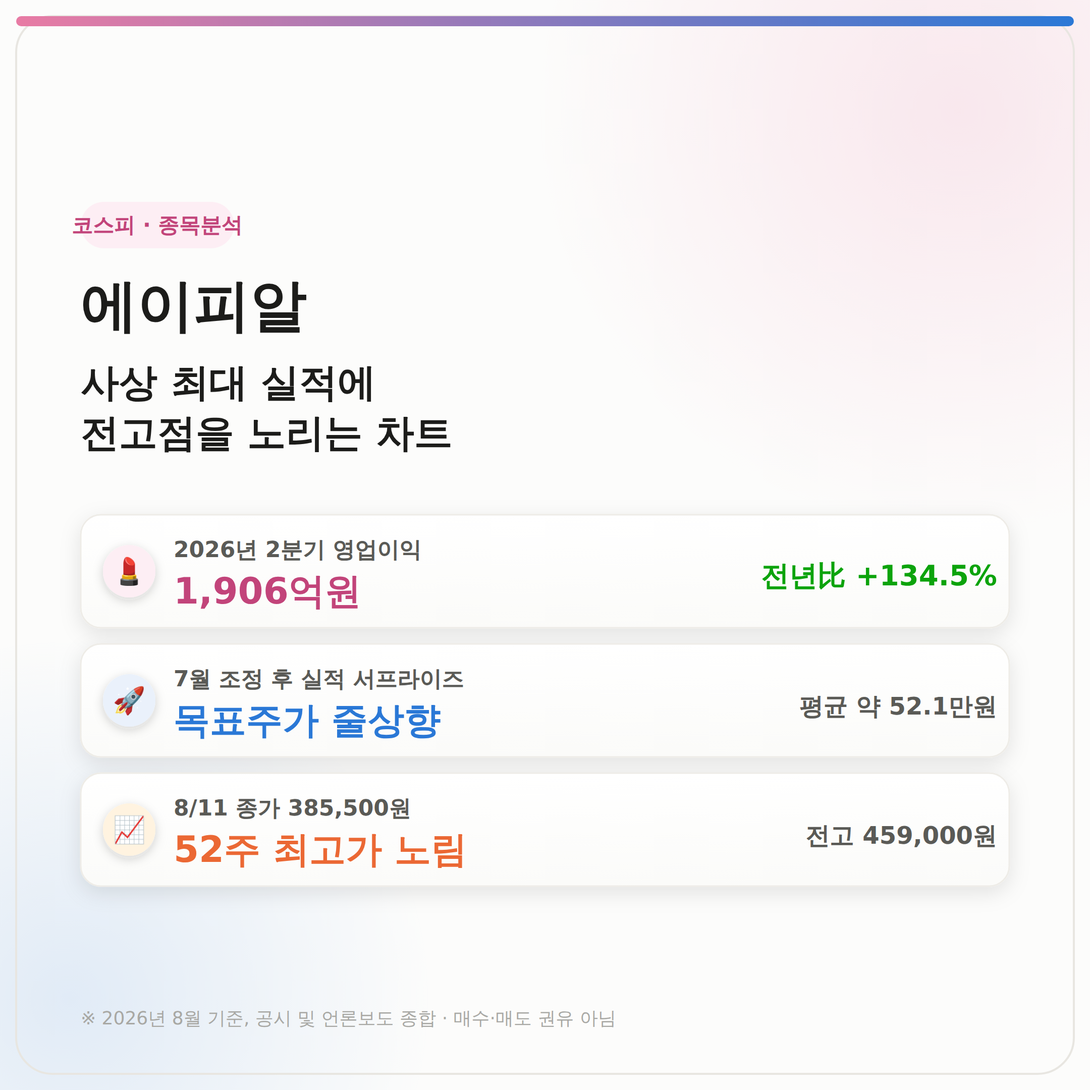
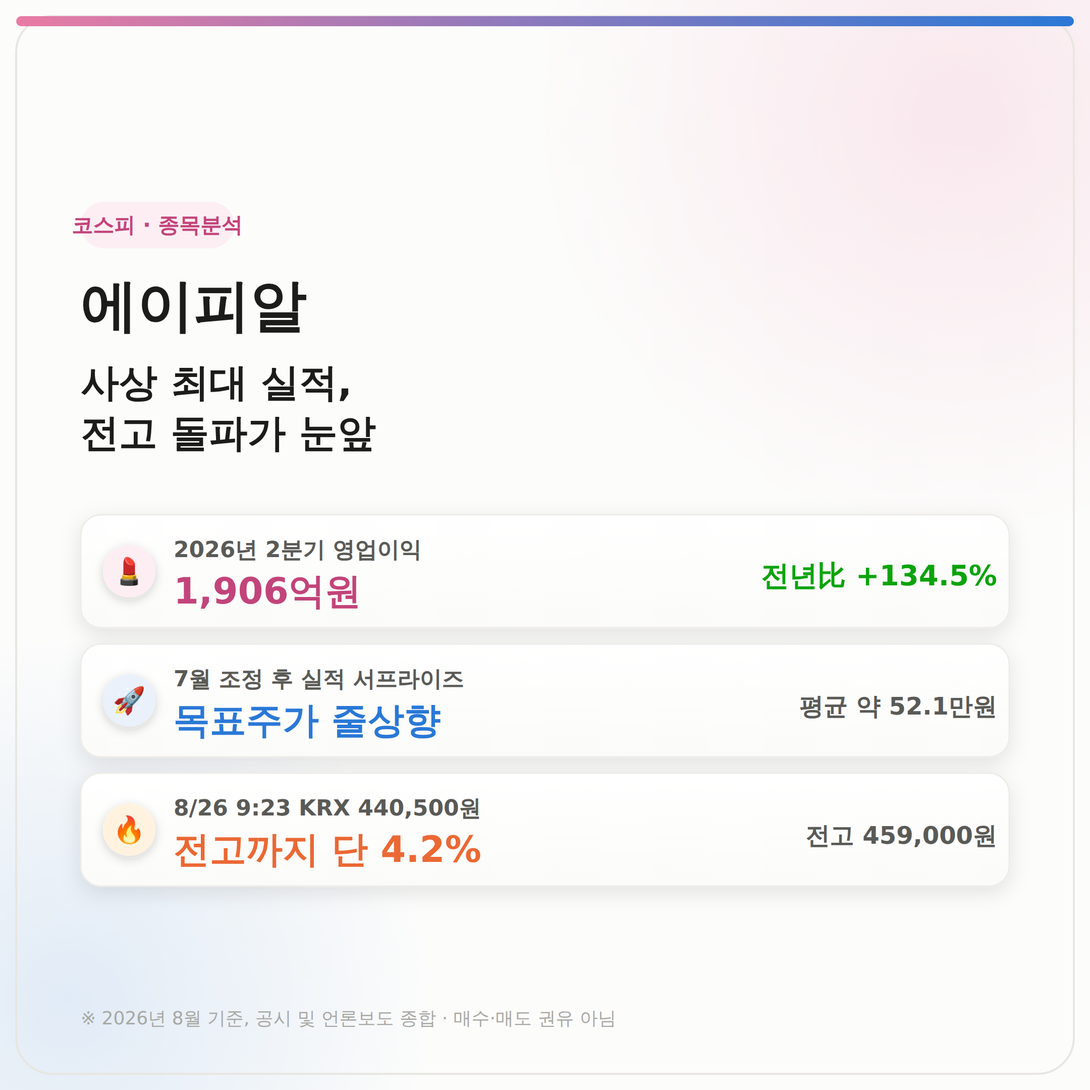
fix: 에이피알 8/26 9:23 KRX 종가(440,500원) 반영, 돌파 가능성 농후 베이스로 재구성
- 8/11 종가(385,500원) 대신 8/26 오전 9시23분 KRX 실시간가(440,500원) 반영
- 52주 최고가(459,000원)까지 남은 거리 19%→4.2%로 갱신
- 종가추이 차트에 8/26 데이터포인트 추가, 돌파 화살표를 전고 근접 지점으로 조정
- 목표주가 차트 현재가 기준선 이동, 밸류에이션 괴리 35%→18%로 재계산
- 시나리오 섹션을 '돌파 시나리오=기본 시나리오, 조정=리스크 변수'로 재구성
- 제목/결론을 '전고 돌파가 눈앞'으로 조정

Changed region(s): [[0.0931, 0.7134, 0.4343, 0.8065], [0.1551, 0.3412, 0.4032, 0.4343]]

diff --git a/src/App.tsx b/src/App.tsx
@@ -9,18 +9,18 @@ import { Post } from './types';
 const samplePosts: Post[] = [
   {
     id: 'post-35',
-    title: '에이피알 분석 - 사상 최대 실적에 전고점을 노리는 차트',
+    title: '에이피알 분석 - 사상 최대 실적, 전고 돌파가 눈앞',
     category: '주식',
-    date: '2026-08-24',
+    date: '2026-08-26',
     tags: ['주식', '에이피알', '메디큐브', '뷰티테크', 'K뷰티', '종목분석', '코스피'],
     naverCategory: '국내주식',
     filePath: 'posts/stock/apr-analysis.md',
     content: `
-# 에이피알 분석 - 사상 최대 실적에 전고점을 노리는 차트
+# 에이피알 분석 - 사상 최대 실적, 전고 돌파가 눈앞
 
 안녕하세요 대왕토끼입니다~ 🐰
 
-![에이피알 주식분석 커버 이미지 - 사상 최대 실적에 전고점을 노리는 차트, 2026년 2분기 영업이익 1906억원 전년比 +134.5%, 7월 조정 후 실적 서프라이즈로 목표주가 줄상향 평균 약 52.1만원, 8월11일 종가 385500원 52주 최고가 노림 전고 459000원](/images/apr-stock/apr-cover.png)
+![에이피알 주식분석 커버 이미지 - 사상 최대 실적, 전고 돌파가 눈앞, 2026년 2분기 영업이익 1906억원 전년比 +134.5%, 7월 조정 후 실적 서프라이즈로 목표주가 줄상향 평균 약 52.1만원, 8월26일 오전 9시23분 KRX 440500원 전고까지 단 4.2% 전고 459000원](/images/apr-stock/apr-cover.png)
 
 지난번 **한국콜마** 분석 때, 저는 "요즘 시장의 관심은 ODM 업체보다 에이피알 같은 브랜드 기업 쪽에 더 쏠려 있다"고 짚었었는데요. 오늘은 그 주인공 **에이피알**을 직접 살펴보려고 합니다. K뷰티 업황 훈풍은 한국콜마 편에서 이미 자세히 다뤘으니, 이번 글에서는 에이피알 고유의 이야기 — 사상 최대 실적과 최근 차트 흐름 — 에 집중해서 짚어봤어요.
 
@@ -65,7 +65,7 @@ const samplePosts: Post[] = [
 
 ---
 
-## 4. 가장 큰 이슈 - 7월 조정을 딛고, 전고점을 노리는 차트
+## 4. 가장 큰 이슈 - 7월 조정을 딛고, 전고 돌파가 코앞까지
 
 ### ① 7월 내내 이어진 조정
 
@@ -73,13 +73,13 @@ const samplePosts: Post[] = [
 
 ### ② 8월, 실적 서프라이즈로 뒤집힌 흐름
 
-분위기는 8월 들어 완전히 바뀌었어요. 8월 4일, 코스피 지수가 -5.12% 급락한 날에도 에이피알은 오히려 +5.63% 오른 338,000원으로 마감하며 '나홀로 질주'했습니다. 이어 8월 6일 2분기 실적(매출 +134.2%, 영업이익 +134.5%)이 시장 예상을 크게 웃돌았다는 소식에 최소 4개 증권사가 일제히 목표주가를 상향했고, 주가는 8월 7일 384,500원(+1.72%), 8월 11일 385,500원까지 강세를 이어갔어요.
+분위기는 8월 들어 완전히 바뀌었어요. 8월 4일, 코스피 지수가 -5.12% 급락한 날에도 에이피알은 오히려 +5.63% 오른 338,000원으로 마감하며 '나홀로 질주'했습니다. 이어 8월 6일 2분기 실적(매출 +134.2%, 영업이익 +134.5%)이 시장 예상을 크게 웃돌았다는 소식에 최소 4개 증권사가 일제히 목표주가를 상향했고, 주가는 8월 7일 384,500원(+1.72%), 8월 11일 385,500원까지 강세를 이어갔어요. 이 흐름은 이후로도 꺾이지 않고 이어져서, 8월 26일 오전 9시 23분 기준 KRX 종가는 **440,500원**까지 올라왔습니다.
 
-![에이피알 종가 추이 차트 - 5월 52주 최고가 459,000원 기록 후 7월 밸류에이션 부담에 조정, 8월4일 코스피 급락장 속 나홀로 상승 338,000원에서 반등해 8월11일 385,500원까지 회복, 52주 최고가 돌파를 향해 접근 중](/images/apr-stock/apr-price-trend.png)
+![에이피알 종가 추이 차트 - 5월 52주 최고가 459,000원 기록 후 7월 밸류에이션 부담에 조정, 8월4일 코스피 급락장 속 나홀로 상승 338,000원에서 반등해 8월26일 440,500원까지 회복, 52주 최고가까지 단 4.2% 남은 돌파 임박 구간](/images/apr-stock/apr-price-trend.png)
 
-### ③ 차트로 보면 - 전고점이 눈앞
+### ③ 차트로 보면 - 돌파 가능성이 농후한 구간
 
-8월 11일 종가(385,500원) 기준으로 보면, 5월 52주 최고가(459,000원)까지는 아직 19% 정도 더 올라야 하는 구간이 남아있어요. 다만 7월 저점 대비로는 이미 상당폭 반등한 상태고, 실적 서프라이즈·목표주가 줄상향이라는 재료가 함께 겹쳐 있다는 점에서, 이 흐름이 이어진다면 전고점 돌파 시도가 현실적인 시나리오로 떠오를 수 있어요. 다음 관전 포인트는 이 반등이 거래량을 동반한 채로 이어지는지, 그리고 실제로 전고점 부근에서 매물이 어떻게 소화되는지예요.
+8월 26일 현재가(440,500원) 기준으로 보면, 5월 52주 최고가(459,000원)까지 남은 거리는 단 4.2%예요. 7월 저점(338,000원) 대비로는 이미 30% 넘게 반등한 상태고, 그 반등을 실적 서프라이즈와 목표주가 줄상향이라는 펀더멘털 재료가 계속 뒷받침하고 있다는 점에서, 지금 이 구간은 "돌파가 될 수도 있다" 정도가 아니라 "돌파 가능성이 농후한" 베이스로 봐도 무리가 없어 보여요. 실적 모멘텀이 꺾이지 않는 한, 52주 최고가는 저항선이라기보다 통과 지점에 더 가까운 위치라는 인상이에요. 다음 관전 포인트는 전고점 부근에서 거래량이 얼마나 실리는지, 그리고 실제로 신고가를 찍는 순간의 매물 소화 여부예요.
 
 ---
 
@@ -98,27 +98,29 @@ const samplePosts: Post[] = [
 | KB증권 | 50만원 | 기존 대비 +4.2% 상향 |
 | **7개사 목표주가 평균** | **약 52.1만원** | - |
 
-![에이피알 목표주가와 현재가 비교 차트 - 8월11일 종가 385,500원 대비 삼성·KB증권 50만원, 하나증권 51만원, 한국투자증권 52만원, 유진투자증권 53만원, NH투자증권 54만원, 교보증권 55만원으로 목표주가가 모두 현재가를 크게 상회](/images/apr-stock/apr-target-price.png)
+![에이피알 목표주가와 현재가 비교 차트 - 8월26일 오전 9시23분 KRX 440,500원 대비 삼성·KB증권 50만원, 하나증권 51만원, 한국투자증권 52만원, 유진투자증권 53만원, NH투자증권 54만원, 교보증권 55만원으로 목표주가가 모두 현재가를 상회](/images/apr-stock/apr-target-price.png)
 
-8월 11일 종가 대비 목표주가 평균은 35% 이상 높은 수준이고, 52주 최고가(459,000원)보다도 목표주가 상단(55만원)이 훨씬 위에 있어요. 증권가는 이미 "많이 올랐다"보다는 "아직 갈 길이 남았다" 쪽에 무게를 두고 있는 셈이에요.
+8월 26일 현재가(440,500원) 대비로도 목표주가 평균은 여전히 18% 이상 높은 수준이고, 목표주가 상단(55만원)은 52주 최고가(459,000원)보다도 위에 있어요. 즉 지금 가격 상승분을 반영하고도, 증권가는 여전히 "아직 갈 길이 남았다" 쪽에 무게를 두고 있는 셈이에요.
 
 ---
 
-## 6. 앞으로의 향방: 돌파 시나리오 vs 조정 시나리오
+## 6. 앞으로의 향방: 돌파가 기본 시나리오, 관건은 속도
 
-### 📈 돌파 시나리오 (실적 모멘텀 지속)
+차트, 실적, 수급 세 가지가 한 방향을 가리키고 있다는 점에서 지금은 돌파 쪽에 좀 더 무게를 두고 봐도 되는 구간이라고 봐요. 다만 그 과정에서 흔들릴 수 있는 변수도 함께 짚어볼게요.
+
+### 📈 돌파 시나리오 (기본 시나리오)
 - 3분기에도 메디큐브·AGE-R의 해외 판매 확대가 이어지며 실적 서프라이즈가 반복되는 흐름
 - 뷰티테크 카테고리에서의 선두 지위가 공고해지며 밸류에이션 재평가가 이어지는 흐름
-- 거래량을 동반한 신고가 경신으로 52주 최고가(459,000원)를 돌파하는 흐름
-- 관전 포인트: 3분기 실적 발표 시점, 해외 오프라인 매장 확대 속도, 패션 부문 반등 여부
+- 거래량을 동반한 채로 52주 최고가(459,000원)를 넘어서며 신고가 영역에 진입하는 흐름
+- 관전 포인트: 전고점 부근 거래량, 3분기 실적 발표 시점, 해외 오프라인 매장 확대 속도
 
-### 📉 조정 시나리오 (밸류에이션 부담 재부각)
-- 7월과 유사하게, 단기 급등에 따른 차익실현 매물이 다시 출회하는 흐름
+### 📉 조정 시나리오 (변수로 남는 리스크)
+- 전고점 부근에서 차익실현 매물이 예상보다 무겁게 출회하며 돌파에 실패하는 흐름
 - 메디큐브 단일 브랜드 의존도가 높은 상태에서 브랜드 피로도나 경쟁 심화가 부각되는 흐름
 - 패션(널디) 부문의 부진이 장기화되며 전사 수익성에 부담을 주는 흐름
-- 목표주가와 현재가 사이의 큰 괴리가 과열의 신호로 재해석되는 흐름
+- 단기간 급등에 따른 변동성이 다시 7월과 같은 조정으로 이어지는 흐름
 
-결국 핵심은 "8월의 반등이 실적 개선 추세를 확인한 재평가인지, 아니면 단기 반등에 그치는지"를 다음 분기 실적과 전고점 부근에서의 거래량으로 확인하는 거예요.
+결국 핵심은 "이 흐름이 전고점을 뚫고 신고가 영역으로 이어지느냐, 아니면 전고점 부근에서 한 번 더 쉬어가느냐"이고, 지금까지 나온 재료들은 전자 쪽에 좀 더 힘을 실어주고 있는 모습이에요.
 
 ---
 
@@ -127,7 +129,8 @@ const samplePosts: Post[] = [
 **투자 포인트**
 - 화장품(메디큐브)과 홈 뷰티디바이스(AGE-R)를 함께 파는 독특한 사업 구조로, 카테고리 자체를 개척하고 있어요.
 - 두 분기 연속 전년比 130%대 성장을 기록하며 실적 모멘텀이 뚜렷하게 확인되고 있어요.
-- 목표주가 평균이 현재가 대비 35% 이상 높고, 52주 최고가 대비로도 목표주가 상단이 더 높은 편이에요.
+- 목표주가 평균이 현재가 대비 18% 이상 높고, 52주 최고가 대비로도 목표주가 상단이 더 높은 편이에요.
+- 8월 26일 현재가 기준 52주 최고가까지 남은 거리가 단 4.2%로, 차트상으로도 돌파 가능성이 농후한 구간에 들어와 있어요.
 - 미국·유럽 오프라인 채널 확장이 아직 초입 단계라, 추가 성장 여력이 남아있다는 시각이 있어요.
 
 **리스크**
@@ -140,9 +143,9 @@ const samplePosts: Post[] = [
 
 ## 8. 결론 및 투자자 시사점
 
-에이피알은 화장품과 홈 뷰티디바이스를 함께 파는 독특한 사업 구조로 K뷰티 브랜드 기업의 대표주자로 떠오른 회사예요. 두 분기 연속 전년比 130%대 성장이라는 압도적인 실적을 내고 있고, 7월 조정을 딛고 8월 들어 실적 서프라이즈와 목표주가 줄상향을 등에 업고 다시 반등하는 흐름을 보이고 있습니다.
+에이피알은 화장품과 홈 뷰티디바이스를 함께 파는 독특한 사업 구조로 K뷰티 브랜드 기업의 대표주자로 떠오른 회사예요. 두 분기 연속 전년比 130%대 성장이라는 압도적인 실적을 내고 있고, 7월 조정을 딛고 8월 들어 실적 서프라이즈와 목표주가 줄상향을 등에 업고 반등한 끝에, 8월 26일 현재 52주 최고가까지 단 4.2%만을 남겨둔 상태까지 올라왔습니다.
 
-지난 한국콜마 분석에서 다뤘던 K뷰티 수출 훈풍이 산업 전체의 배경이라면, 에이피알은 그 안에서도 자체 브랜드·디바이스로 시장의 관심을 가장 많이 받고 있는 종목 중 하나예요. 다만 52주 최고가까지는 아직 거리가 남아있고, 목표주가와의 괴리도 큰 만큼, 이 반등이 추세적인 재평가인지 다음 분기 실적으로 직접 확인해보시는 걸 추천드려요.
+지난 한국콜마 분석에서 다뤘던 K뷰티 수출 훈풍이 산업 전체의 배경이라면, 에이피알은 그 안에서도 자체 브랜드·디바이스로 시장의 관심을 가장 많이 받고 있는 종목 중 하나예요. 실적, 수급, 차트가 함께 같은 방향을 가리키고 있다는 점에서 전고점 돌파 가능성이 농후한 구간으로 보이지만, 목표주가와의 괴리가 여전히 크고 전고점 자체가 강한 저항선으로 작용할 수도 있는 만큼, 실제 돌파 여부와 그 이후의 거래량은 직접 확인해보시는 걸 추천드려요.
 
 투자는 언제나 최신 사업보고서와 분기 실적, 그리고 그날그날의 업황 뉴스를 직접 확인하신 후 신중하게 결정하시길 바랍니다. 📊
 

diff --git a/posts/stock/apr-analysis.md b/posts/stock/apr-analysis.md
@@ -1,16 +1,16 @@
 ---
-title: "에이피알 분석 - 사상 최대 실적에 전고점을 노리는 차트"
+title: "에이피알 분석 - 사상 최대 실적, 전고 돌파가 눈앞"
 category: "주식"
-date: "2026-08-24"
+date: "2026-08-26"
 tags: ["주식", "에이피알", "메디큐브", "뷰티테크", "K뷰티", "종목분석", "코스피"]
 naverCategory: "국내주식"
 ---
 
-# 에이피알 분석 - 사상 최대 실적에 전고점을 노리는 차트
+# 에이피알 분석 - 사상 최대 실적, 전고 돌파가 눈앞
 
 안녕하세요 대왕토끼입니다~ 🐰
 
-![에이피알 주식분석 커버 이미지 - 사상 최대 실적에 전고점을 노리는 차트, 2026년 2분기 영업이익 1906억원 전년比 +134.5%, 7월 조정 후 실적 서프라이즈로 목표주가 줄상향 평균 약 52.1만원, 8월11일 종가 385500원 52주 최고가 노림 전고 459000원](/images/apr-stock/apr-cover.png)
+![에이피알 주식분석 커버 이미지 - 사상 최대 실적, 전고 돌파가 눈앞, 2026년 2분기 영업이익 1906억원 전년比 +134.5%, 7월 조정 후 실적 서프라이즈로 목표주가 줄상향 평균 약 52.1만원, 8월26일 오전 9시23분 KRX 440500원 전고까지 단 4.2% 전고 459000원](/images/apr-stock/apr-cover.png)
 
 지난번 **한국콜마** 분석 때, 저는 "요즘 시장의 관심은 ODM 업체보다 에이피알 같은 브랜드 기업 쪽에 더 쏠려 있다"고 짚었었는데요. 오늘은 그 주인공 **에이피알**을 직접 살펴보려고 합니다. K뷰티 업황 훈풍은 한국콜마 편에서 이미 자세히 다뤘으니, 이번 글에서는 에이피알 고유의 이야기 — 사상 최대 실적과 최근 차트 흐름 — 에 집중해서 짚어봤어요.
 
@@ -55,7 +55,7 @@ naverCategory: "국내주식"
 
 ---
 
-## 4. 가장 큰 이슈 - 7월 조정을 딛고, 전고점을 노리는 차트
+## 4. 가장 큰 이슈 - 7월 조정을 딛고, 전고 돌파가 코앞까지
 
 ### ① 7월 내내 이어진 조정
 
@@ -63,13 +63,13 @@ naverCategory: "국내주식"
 
 ### ② 8월, 실적 서프라이즈로 뒤집힌 흐름
 
-분위기는 8월 들어 완전히 바뀌었어요. 8월 4일, 코스피 지수가 -5.12% 급락한 날에도 에이피알은 오히려 +5.63% 오른 338,000원으로 마감하며 '나홀로 질주'했습니다. 이어 8월 6일 2분기 실적(매출 +134.2%, 영업이익 +134.5%)이 시장 예상을 크게 웃돌았다는 소식에 최소 4개 증권사가 일제히 목표주가를 상향했고, 주가는 8월 7일 384,500원(+1.72%), 8월 11일 385,500원까지 강세를 이어갔어요.
+분위기는 8월 들어 완전히 바뀌었어요. 8월 4일, 코스피 지수가 -5.12% 급락한 날에도 에이피알은 오히려 +5.63% 오른 338,000원으로 마감하며 '나홀로 질주'했습니다. 이어 8월 6일 2분기 실적(매출 +134.2%, 영업이익 +134.5%)이 시장 예상을 크게 웃돌았다는 소식에 최소 4개 증권사가 일제히 목표주가를 상향했고, 주가는 8월 7일 384,500원(+1.72%), 8월 11일 385,500원까지 강세를 이어갔어요. 이 흐름은 이후로도 꺾이지 않고 이어져서, 8월 26일 오전 9시 23분 기준 KRX 종가는 **440,500원**까지 올라왔습니다.
 
-![에이피알 종가 추이 차트 - 5월 52주 최고가 459,000원 기록 후 7월 밸류에이션 부담에 조정, 8월4일 코스피 급락장 속 나홀로 상승 338,000원에서 반등해 8월11일 385,500원까지 회복, 52주 최고가 돌파를 향해 접근 중](/images/apr-stock/apr-price-trend.png)
+![에이피알 종가 추이 차트 - 5월 52주 최고가 459,000원 기록 후 7월 밸류에이션 부담에 조정, 8월4일 코스피 급락장 속 나홀로 상승 338,000원에서 반등해 8월26일 440,500원까지 회복, 52주 최고가까지 단 4.2% 남은 돌파 임박 구간](/images/apr-stock/apr-price-trend.png)
 
-### ③ 차트로 보면 - 전고점이 눈앞
+### ③ 차트로 보면 - 돌파 가능성이 농후한 구간
 
-8월 11일 종가(385,500원) 기준으로 보면, 5월 52주 최고가(459,000원)까지는 아직 19% 정도 더 올라야 하는 구간이 남아있어요. 다만 7월 저점 대비로는 이미 상당폭 반등한 상태고, 실적 서프라이즈·목표주가 줄상향이라는 재료가 함께 겹쳐 있다는 점에서, 이 흐름이 이어진다면 전고점 돌파 시도가 현실적인 시나리오로 떠오를 수 있어요. 다음 관전 포인트는 이 반등이 거래량을 동반한 채로 이어지는지, 그리고 실제로 전고점 부근에서 매물이 어떻게 소화되는지예요.
+8월 26일 현재가(440,500원) 기준으로 보면, 5월 52주 최고가(459,000원)까지 남은 거리는 단 4.2%예요. 7월 저점(338,000원) 대비로는 이미 30% 넘게 반등한 상태고, 그 반등을 실적 서프라이즈와 목표주가 줄상향이라는 펀더멘털 재료가 계속 뒷받침하고 있다는 점에서, 지금 이 구간은 "돌파가 될 수도 있다" 정도가 아니라 "돌파 가능성이 농후한" 베이스로 봐도 무리가 없어 보여요. 실적 모멘텀이 꺾이지 않는 한, 52주 최고가는 저항선이라기보다 통과 지점에 더 가까운 위치라는 인상이에요. 다음 관전 포인트는 전고점 부근에서 거래량이 얼마나 실리는지, 그리고 실제로 신고가를 찍는 순간의 매물 소화 여부예요.
 
 ---
 
@@ -88,27 +88,29 @@ naverCategory: "국내주식"
 | KB증권 | 50만원 | 기존 대비 +4.2% 상향 |
 | **7개사 목표주가 평균** | **약 52.1만원** | - |
 
-![에이피알 목표주가와 현재가 비교 차트 - 8월11일 종가 385,500원 대비 삼성·KB증권 50만원, 하나증권 51만원, 한국투자증권 52만원, 유진투자증권 53만원, NH투자증권 54만원, 교보증권 55만원으로 목표주가가 모두 현재가를 크게 상회](/images/apr-stock/apr-target-price.png)
+![에이피알 목표주가와 현재가 비교 차트 - 8월26일 오전 9시23분 KRX 440,500원 대비 삼성·KB증권 50만원, 하나증권 51만원, 한국투자증권 52만원, 유진투자증권 53만원, NH투자증권 54만원, 교보증권 55만원으로 목표주가가 모두 현재가를 상회](/images/apr-stock/apr-target-price.png)
 
-8월 11일 종가 대비 목표주가 평균은 35% 이상 높은 수준이고, 52주 최고가(459,000원)보다도 목표주가 상단(55만원)이 훨씬 위에 있어요. 증권가는 이미 "많이 올랐다"보다는 "아직 갈 길이 남았다" 쪽에 무게를 두고 있는 셈이에요.
+8월 26일 현재가(440,500원) 대비로도 목표주가 평균은 여전히 18% 이상 높은 수준이고, 목표주가 상단(55만원)은 52주 최고가(459,000원)보다도 위에 있어요. 즉 지금 가격 상승분을 반영하고도, 증권가는 여전히 "아직 갈 길이 남았다" 쪽에 무게를 두고 있는 셈이에요.
 
 ---
 
-## 6. 앞으로의 향방: 돌파 시나리오 vs 조정 시나리오
+## 6. 앞으로의 향방: 돌파가 기본 시나리오, 관건은 속도
 
-### 📈 돌파 시나리오 (실적 모멘텀 지속)
+차트, 실적, 수급 세 가지가 한 방향을 가리키고 있다는 점에서 지금은 돌파 쪽에 좀 더 무게를 두고 봐도 되는 구간이라고 봐요. 다만 그 과정에서 흔들릴 수 있는 변수도 함께 짚어볼게요.
+
+### 📈 돌파 시나리오 (기본 시나리오)
 - 3분기에도 메디큐브·AGE-R의 해외 판매 확대가 이어지며 실적 서프라이즈가 반복되는 흐름
 - 뷰티테크 카테고리에서의 선두 지위가 공고해지며 밸류에이션 재평가가 이어지는 흐름
-- 거래량을 동반한 신고가 경신으로 52주 최고가(459,000원)를 돌파하는 흐름
-- 관전 포인트: 3분기 실적 발표 시점, 해외 오프라인 매장 확대 속도, 패션 부문 반등 여부
+- 거래량을 동반한 채로 52주 최고가(459,000원)를 넘어서며 신고가 영역에 진입하는 흐름
+- 관전 포인트: 전고점 부근 거래량, 3분기 실적 발표 시점, 해외 오프라인 매장 확대 속도
 
-### 📉 조정 시나리오 (밸류에이션 부담 재부각)
-- 7월과 유사하게, 단기 급등에 따른 차익실현 매물이 다시 출회하는 흐름
+### 📉 조정 시나리오 (변수로 남는 리스크)
+- 전고점 부근에서 차익실현 매물이 예상보다 무겁게 출회하며 돌파에 실패하는 흐름
 - 메디큐브 단일 브랜드 의존도가 높은 상태에서 브랜드 피로도나 경쟁 심화가 부각되는 흐름
 - 패션(널디) 부문의 부진이 장기화되며 전사 수익성에 부담을 주는 흐름
-- 목표주가와 현재가 사이의 큰 괴리가 과열의 신호로 재해석되는 흐름
+- 단기간 급등에 따른 변동성이 다시 7월과 같은 조정으로 이어지는 흐름
 
-결국 핵심은 "8월의 반등이 실적 개선 추세를 확인한 재평가인지, 아니면 단기 반등에 그치는지"를 다음 분기 실적과 전고점 부근에서의 거래량으로 확인하는 거예요.
+결국 핵심은 "이 흐름이 전고점을 뚫고 신고가 영역으로 이어지느냐, 아니면 전고점 부근에서 한 번 더 쉬어가느냐"이고, 지금까지 나온 재료들은 전자 쪽에 좀 더 힘을 실어주고 있는 모습이에요.
 
 ---
 
@@ -117,7 +119,8 @@ naverCategory: "국내주식"
 **투자 포인트**
 - 화장품(메디큐브)과 홈 뷰티디바이스(AGE-R)를 함께 파는 독특한 사업 구조로, 카테고리 자체를 개척하고 있어요.
 - 두 분기 연속 전년比 130%대 성장을 기록하며 실적 모멘텀이 뚜렷하게 확인되고 있어요.
-- 목표주가 평균이 현재가 대비 35% 이상 높고, 52주 최고가 대비로도 목표주가 상단이 더 높은 편이에요.
+- 목표주가 평균이 현재가 대비 18% 이상 높고, 52주 최고가 대비로도 목표주가 상단이 더 높은 편이에요.
+- 8월 26일 현재가 기준 52주 최고가까지 남은 거리가 단 4.2%로, 차트상으로도 돌파 가능성이 농후한 구간에 들어와 있어요.
 - 미국·유럽 오프라인 채널 확장이 아직 초입 단계라, 추가 성장 여력이 남아있다는 시각이 있어요.
 
 **리스크**
@@ -130,9 +133,9 @@ naverCategory: "국내주식"
 
 ## 8. 결론 및 투자자 시사점
 
-에이피알은 화장품과 홈 뷰티디바이스를 함께 파는 독특한 사업 구조로 K뷰티 브랜드 기업의 대표주자로 떠오른 회사예요. 두 분기 연속 전년比 130%대 성장이라는 압도적인 실적을 내고 있고, 7월 조정을 딛고 8월 들어 실적 서프라이즈와 목표주가 줄상향을 등에 업고 다시 반등하는 흐름을 보이고 있습니다.
+에이피알은 화장품과 홈 뷰티디바이스를 함께 파는 독특한 사업 구조로 K뷰티 브랜드 기업의 대표주자로 떠오른 회사예요. 두 분기 연속 전년比 130%대 성장이라는 압도적인 실적을 내고 있고, 7월 조정을 딛고 8월 들어 실적 서프라이즈와 목표주가 줄상향을 등에 업고 반등한 끝에, 8월 26일 현재 52주 최고가까지 단 4.2%만을 남겨둔 상태까지 올라왔습니다.
 
-지난 한국콜마 분석에서 다뤘던 K뷰티 수출 훈풍이 산업 전체의 배경이라면, 에이피알은 그 안에서도 자체 브랜드·디바이스로 시장의 관심을 가장 많이 받고 있는 종목 중 하나예요. 다만 52주 최고가까지는 아직 거리가 남아있고, 목표주가와의 괴리도 큰 만큼, 이 반등이 추세적인 재평가인지 다음 분기 실적으로 직접 확인해보시는 걸 추천드려요.
+지난 한국콜마 분석에서 다뤘던 K뷰티 수출 훈풍이 산업 전체의 배경이라면, 에이피알은 그 안에서도 자체 브랜드·디바이스로 시장의 관심을 가장 많이 받고 있는 종목 중 하나예요. 실적, 수급, 차트가 함께 같은 방향을 가리키고 있다는 점에서 전고점 돌파 가능성이 농후한 구간으로 보이지만, 목표주가와의 괴리가 여전히 크고 전고점 자체가 강한 저항선으로 작용할 수도 있는 만큼, 실제 돌파 여부와 그 이후의 거래량은 직접 확인해보시는 걸 추천드려요.
 
 투자는 언제나 최신 사업보고서와 분기 실적, 그리고 그날그날의 업황 뉴스를 직접 확인하신 후 신중하게 결정하시길 바랍니다. 📊
 
